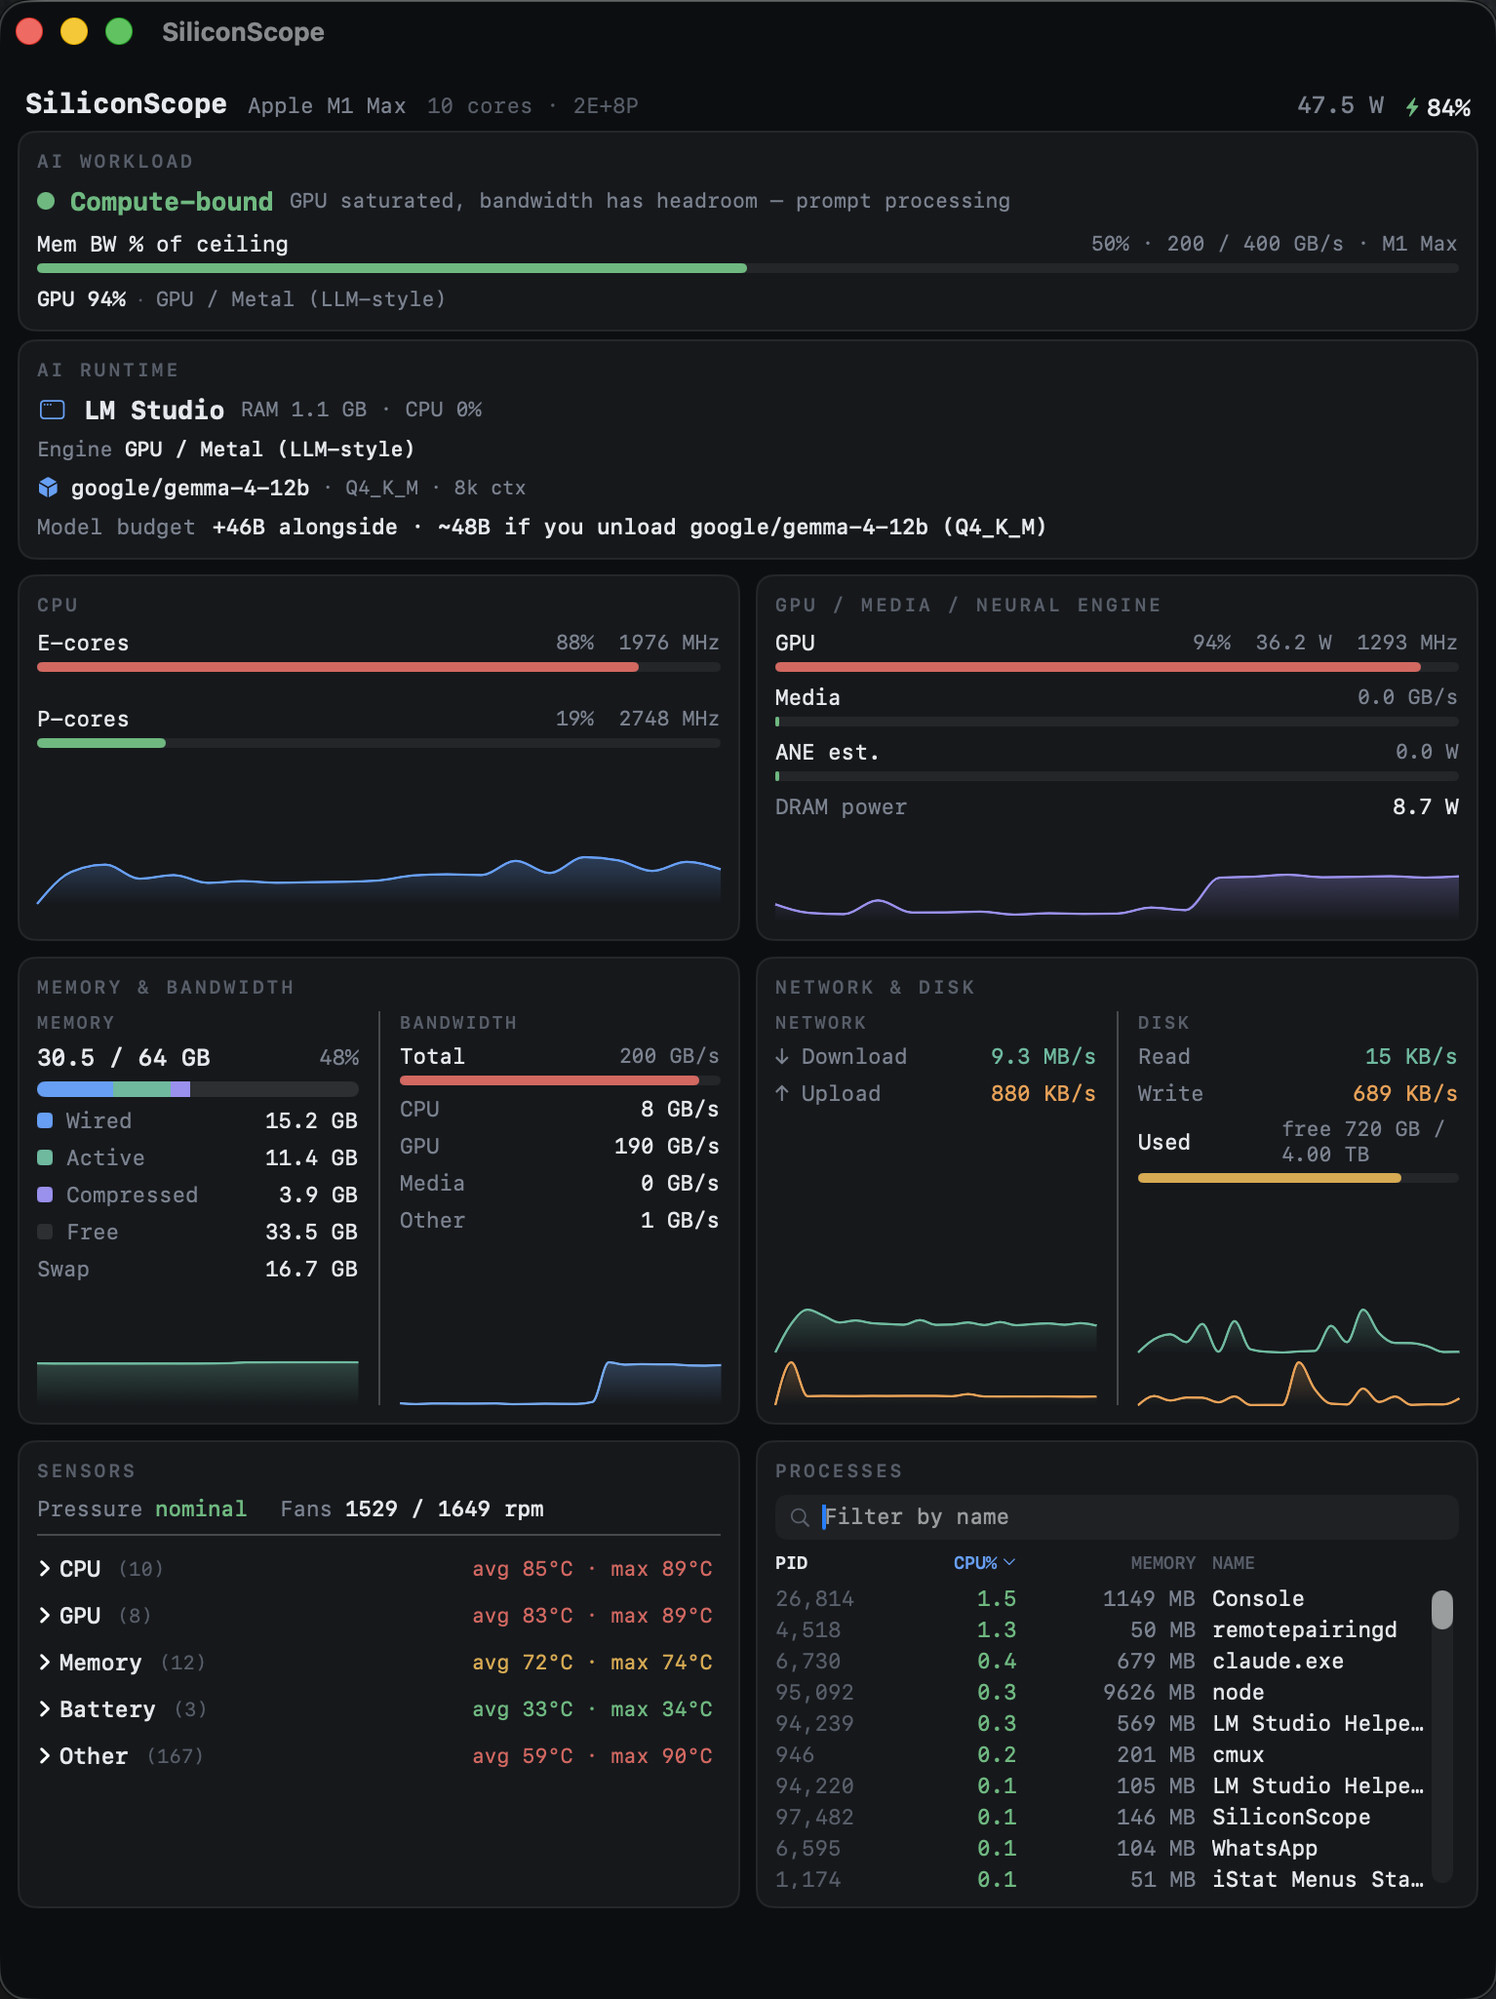
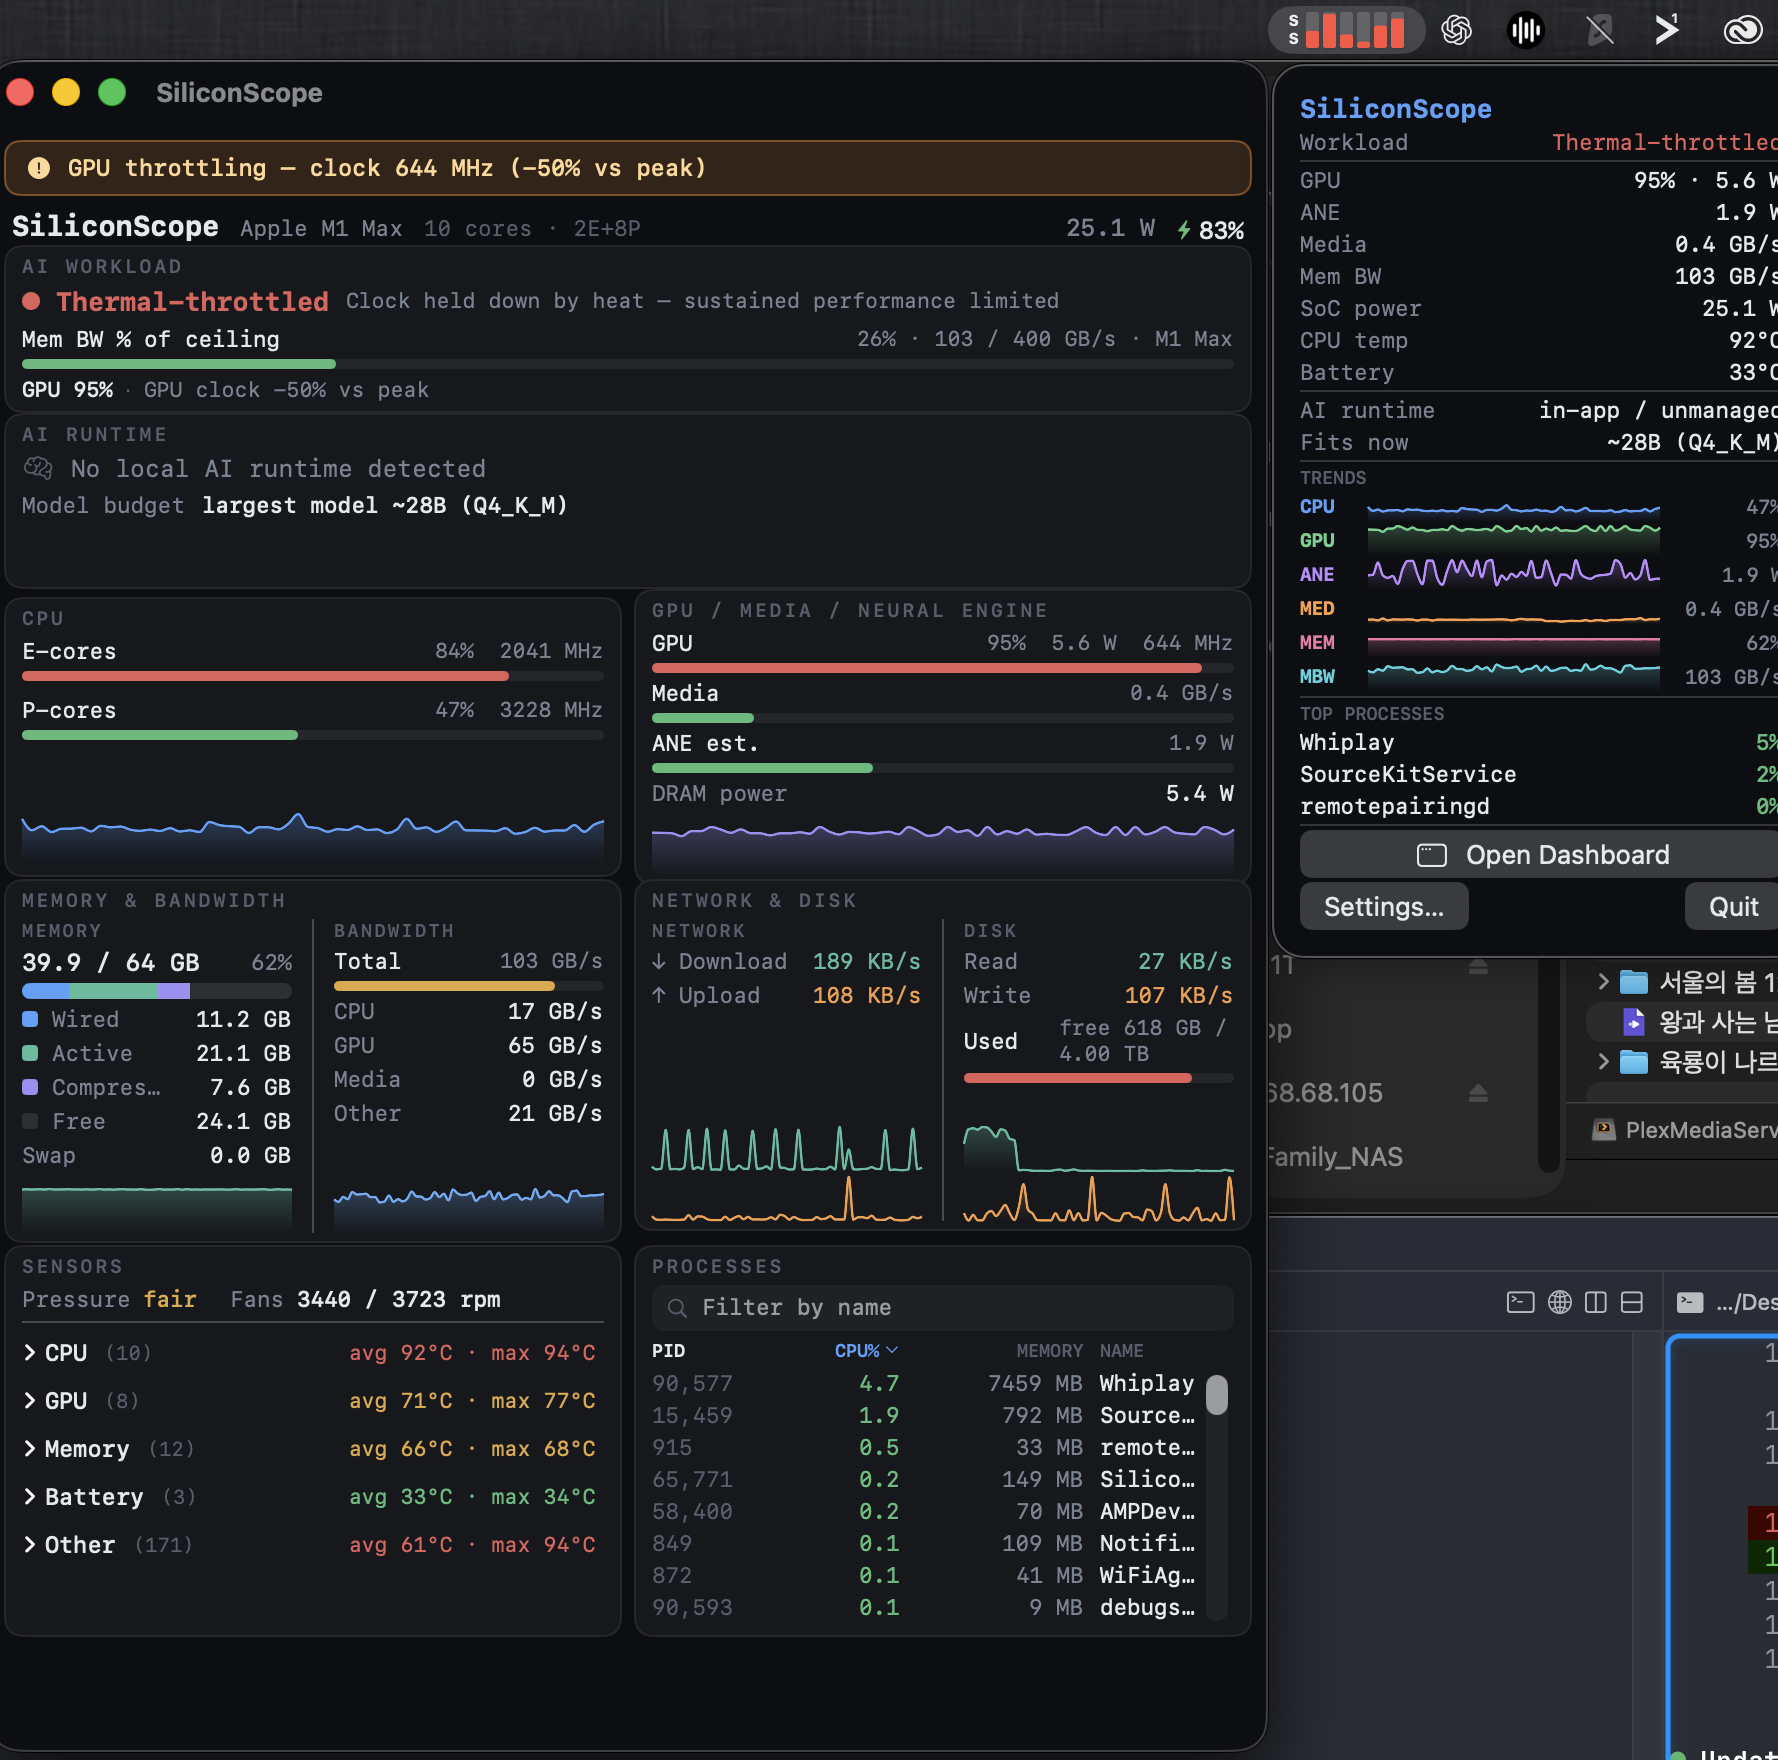
docs(readme): refresh screenshots for the v1.4.0 menu-bar cockpit
Replace both screenshots with current-UI captures: hero shows a sustained
on-device LLM pinning the GPU with the thermal throttle caught (menu-bar glyph
blinks red) and honest "in-app / unmanaged" attribution; the second shows the
full dashboard + the new 6-bar menu-bar glyph and six per-engine trend graphs.
Update captions/alt text to match.

diff --git a/README.md b/README.md
@@ -12,13 +12,13 @@ tracking that terminal monitors and Activity Monitor don't surface.
 Born from wanting to *see* exactly how on-device AI and media workloads drive the
 Apple Silicon accelerators — hence the focus on ANE / Media / bandwidth.
 
-![SiliconScope dashboard](docs/img/screenshot.png)
+![SiliconScope catching a GPU thermal throttle under a local-LLM load](docs/img/screenshot.png)
 
-*Live local LLM (LM Studio): detected runtime, loaded model, GPU/CPU offload split, and the memory budget.*
+*A sustained on-device LLM (MLX-Swift) pinning the GPU — SiliconScope catches the thermal throttle (banner + the menu-bar glyph blinks red), shows the per-engine trends, and attributes it honestly as `in-app / unmanaged` (no managed runtime serving a model).*
 
-![SiliconScope catching memory pressure](docs/img/screenshot-2.png)
+![SiliconScope dashboard and menu-bar cockpit](docs/img/screenshot-2.png)
 
-*A 31B model overflowing unified memory — the budget flips to `swapping` and the memory-pressure banner fires before tokens/sec collapse.*
+*The full dashboard plus the menu-bar cockpit: a live 6-bar glyph (CPU / GPU / ANE / Media / memory / bandwidth) and six color-matched per-engine trend graphs — each on a fixed axis so a small signal reads small.*
 
 ## Install
 